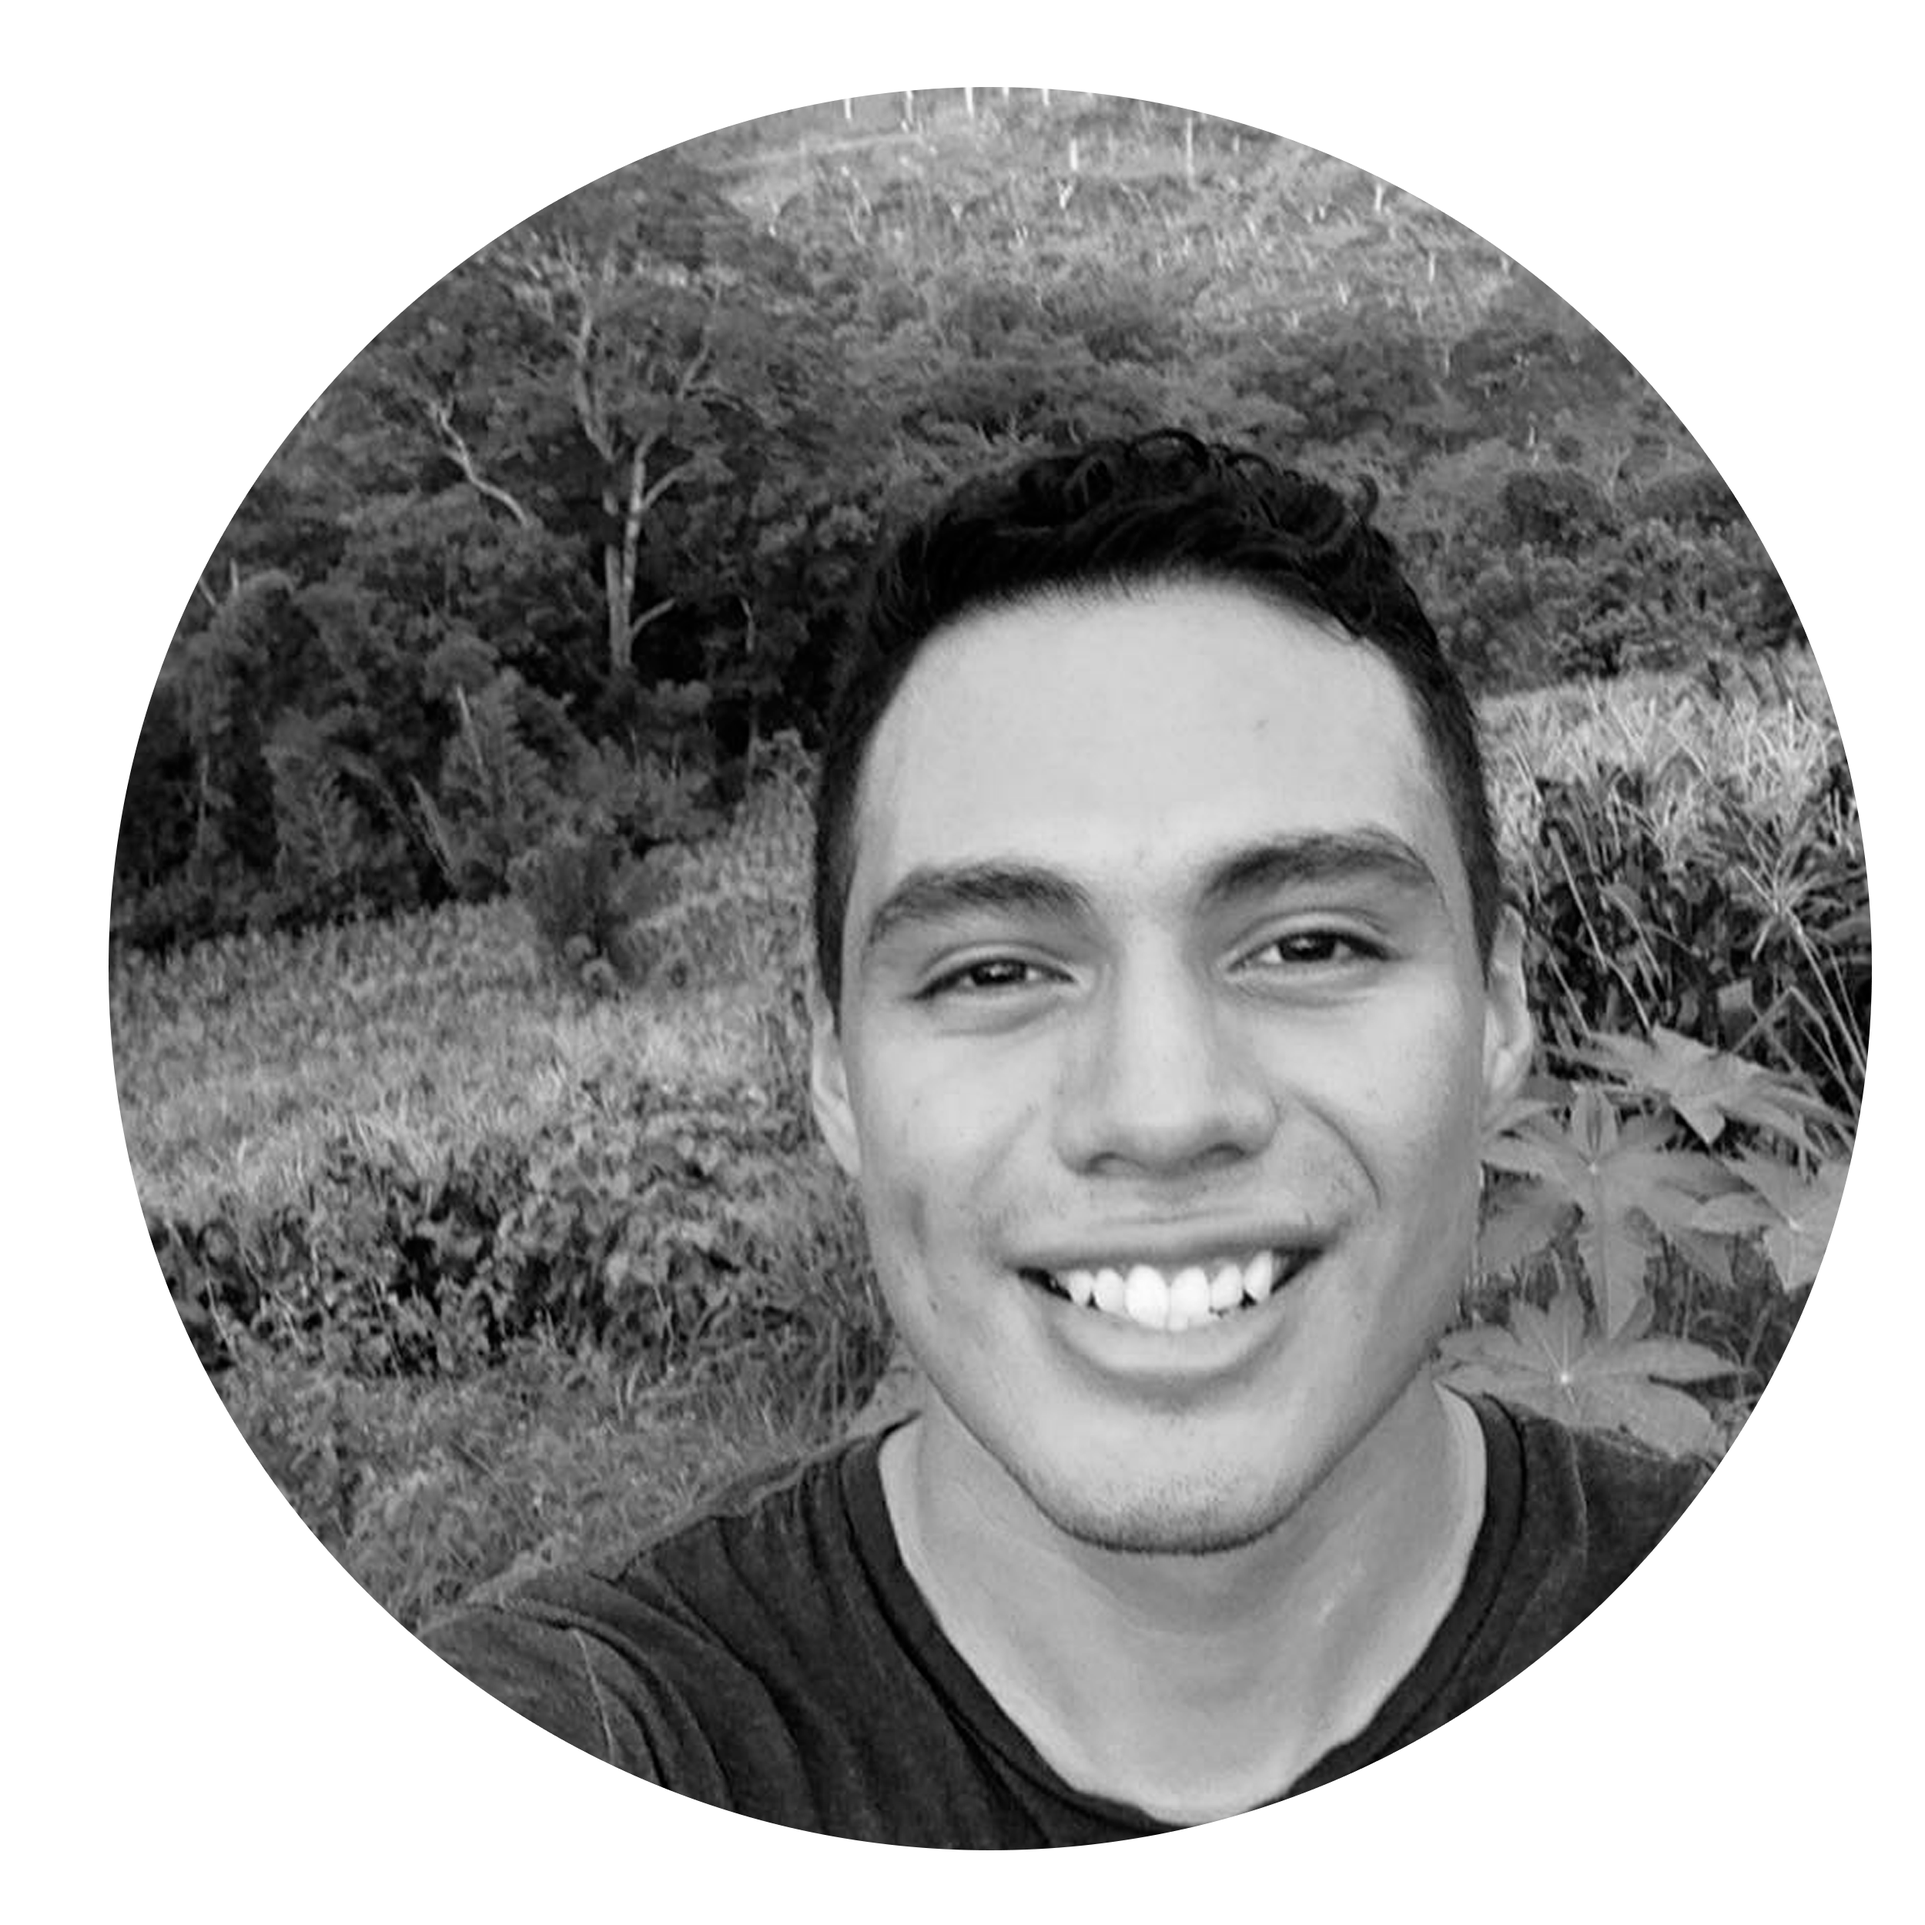
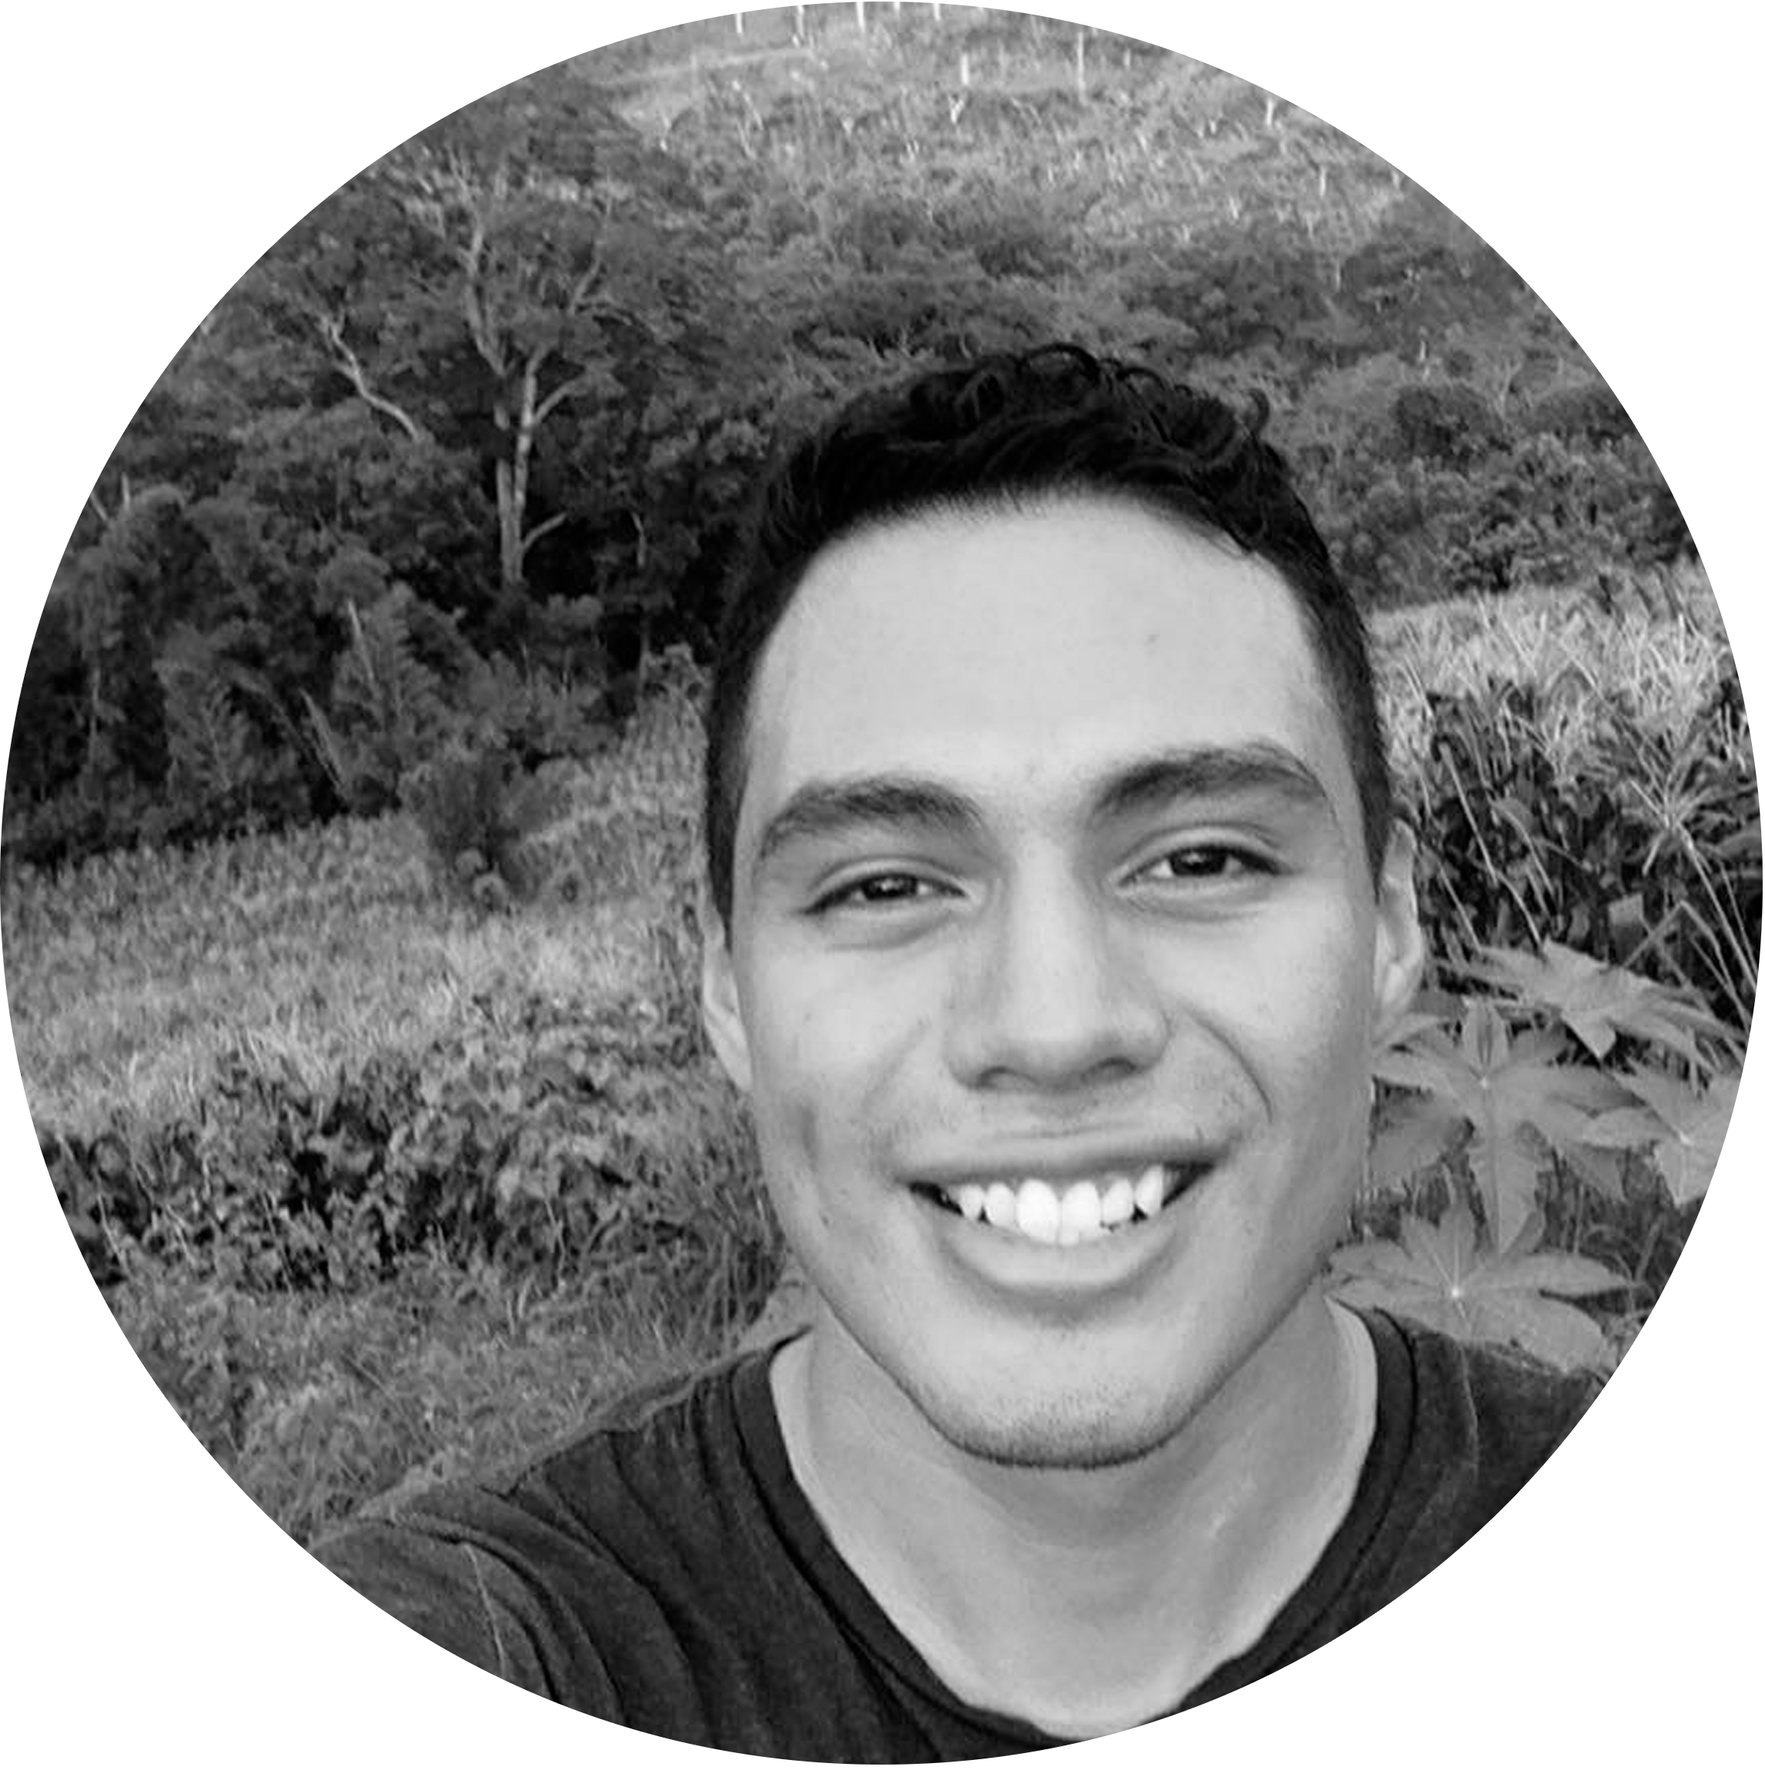
All parts done except for menu

diff --git a/index.html b/index.html
@@ -122,12 +122,12 @@
                         tempor incididunt ut labore et dolore magna aliqua. Ut enim ad minim veniam, 
                 </p>
             </div>
-            <div class="flex items-stretch">
+            <div class="flex items-stretch team-photo-wrapper">
                 <div class="s6">
                     <div class="team">
-                        <img src="" alt="Jose A Mejia">
+                        <img src="./assets/pictures/ALE_PHOTO.png" alt="Jose A Mejia">
                         <div class="team-header">
-                            <h4> ALEJANDRO MEJIA </h4>
+                            <h4> Jose A Mejia </h4>
                         </div>
                         <hr/>
                         <div class="team-position">
@@ -138,7 +138,7 @@
     
                 <div class="s6">
                     <div class="team">
-                        <img src="" alt="Eduardo Mejia">
+                        <img src="./assets/pictures/EDU_PHOTO.png" alt="Eduardo Mejia">
                         <div class="team-header">
                             <h4> Eduardo Mejia </h4>
                         </div>

diff --git a/css/main.css b/css/main.css
@@ -84,14 +84,6 @@ ul {
     margin-bottom: 10em;
 }
 
-.logo {
-    position: absolute;
-    top: 0px;
-    bottom: 0;
-    right: 0;
-    left: 0;
-}
-
 .center {
     text-align: center;
 }
@@ -172,7 +164,7 @@ h3 {
 
 .logo {
     position: absolute;
-    top: 4em;
+    top: 3em;
     bottom: 0;
     right: 0em;
     left: 6em;
@@ -192,4 +184,22 @@ h3 {
 
 .web-applications {
     margin: 0em 0.5em 0em 2em;
+}
+
+.team-photo-wrapper {
+    margin-top: 5em;
+}
+
+.team-photo-wrapper img {
+    max-width: 7em;
+    border: 2px solid white;
+    border-radius: 500px;
+    -moz-border-radius: 500px;
+}
+
+ul {list-style: none}
+
+li::before {
+    content: "•"; 
+    color: rgb(44, 170, 255)
 }
